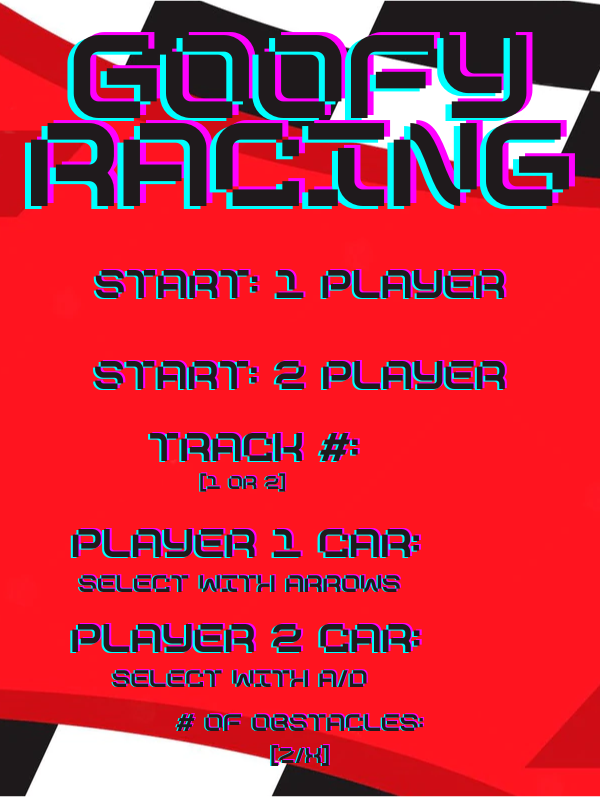
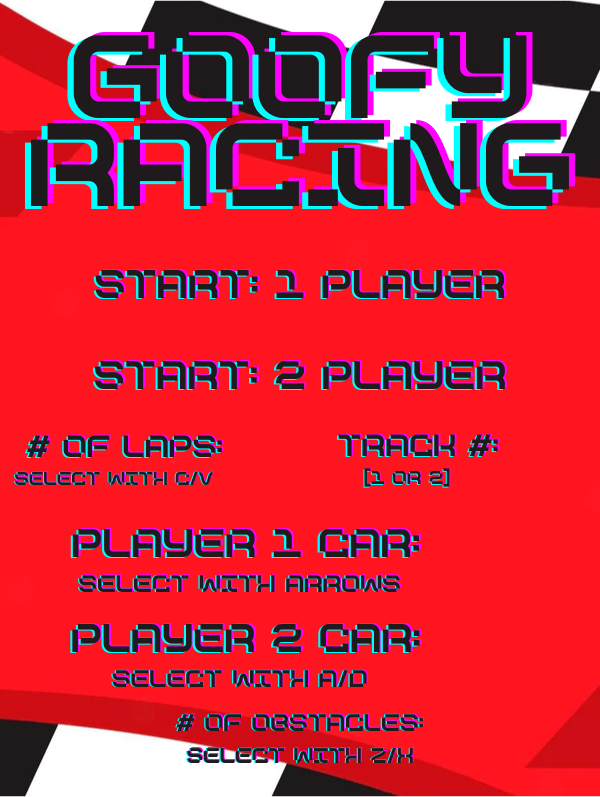
win conditions and final screen

Changed region(s): [[0.03, 0.542, 0.84, 0.6324], [0.3, 0.9335, 0.69, 0.9636]]

diff --git a/main.py b/main.py
@@ -1,10 +1,10 @@
 import pygame as pg
 
-import time , random
-from ingame_objects import PlayerVehicle, Track, banana, booster, Finish
+import time 
+from ingame_objects import PlayerVehicle, Track, banana, booster, Checkpoint
 from menu_objects import button, selector
 
-from gameview import screen, obstacle_setup
+from gameview import screen, obstacle_setup, start_game
 
 #Load all images
 purple_car = pg.image.load('imgs/Purple_car.png')
@@ -19,12 +19,16 @@ border1 = pg.image.load('imgs/trk1border.png')
 track2img = pg.image.load('imgs/trk2.png')
 border2 = pg.image.load('imgs/trk2border.png')
 
-finish1img = pg.image.load('imgs/finish.png')
-finish2img =  pg.image.load('imgs/finish2.png')
+finish2img = pg.image.load('imgs/finish.png')
+finish1img =  pg.image.load('imgs/finish2.png')
+check2img = pg.image.load('imgs/trk1check.png')
+check1img =  pg.image.load('imgs/trk2check.png')
 
 
 
 menuback = pg.image.load('imgs/Goofy Racing.png')
+winback = pg.image.load('imgs/Goofy Win.png')
+solowinback = pg.image.load('imgs/Goofy solo Win.png')
 
 p1buttonimg = pg.image.load('imgs/1pbutton.png')
 p2buttonimg = pg.image.load('imgs/2pbutton.png')
@@ -43,6 +47,9 @@ seven= pg.image.load('imgs/7.png')
 eight= pg.image.load('imgs/8.png')
 numbers = [zero,one,two,three,four,five,six,seven,eight]
 track_num_lst = [one,two]
+large1 = pg.image.load('imgs/1L.png')
+large2= pg.image.load('imgs/2L.png')
+large_nums = [large1,large2]
 pg.init()
 
 pg.mixer.init()
@@ -57,12 +64,15 @@ pg.mixer.music.play()
 track1obstacle_locations = [(93, 91) ,(141, 78) ,(186, 58) ,(185, 144) ,(235, 162) ,(289, 190) ,(299, 126) ,(258, 88) ,(298, 39) ,(352, 91) ,(399, 87) ,(497, 176) ,(478, 235) ,(514, 271) ,(497, 351) ,(478, 439) ,(500, 485) ,(448, 531) ,(415, 601) ,(362, 608) ,(294, 660) ,(230, 628) ,(166, 662) ,(149, 624) ,(128, 577) ,(148, 511) ,(203, 499) ,(243, 532) ,(274, 500) ,(328, 521) ,(383, 471) ,(430, 455) ,(391, 371) ,(431, 328) ,(407, 266) ,(348, 258) ,(313, 284) ,(273, 259) ,(248, 293) ,(198, 264) ,(217, 325) ,(195, 355) ,(247, 366) ,(271, 334) ,(336, 382) ,(293, 411) ,(226, 448) ,(195, 417) ,(130, 407) ,(123, 336) ,(90, 293) ,(125, 255) ,(94, 221)]
 track2obstacle_locations = [(71, 321), (29, 371), (72, 445),(48, 536), (93, 645),(117, 609), (257, 612) ,(202, 574) ,(217, 500) ,(134, 486) ,(161, 396) ,(225, 409) ,(311, 361) ,(357, 443) ,(415, 479) ,(385, 609), (457, 641) ,(469, 592) ,(545, 529) ,(495, 476) ,(541, 399) ,(494, 356) ,(456, 254) ,(406, 301) ,(368, 255) ,(260, 258) ,(183, 221) ,(171, 159) ,(191, 294) ,(250, 148),(324, 196) ,(431, 152) , (487, 182) ,(497, 113) ,(396, 38), (199, 46),(213, 86) ,(131, 69) ,(104, 150), (69, 139)]  
 
-track1 = Track(track1img, border1,(80,120),track1obstacle_locations,(100,160),(120,160) )
-track2 = Track(track2img, border2,(20,220),track2obstacle_locations,(30,260),(60,260) )
+track2 = Track(track1img, border1,(80,120),track1obstacle_locations,(100,160),(120,160) )
+track1 = Track(track2img, border2,(20,220),track2obstacle_locations,(30,260),(60,260) )
 
-finish1 = Finish(finish1img)
-finish2 = Finish(finish2img)
+finish1 = Checkpoint(finish1img)
+finish2 = Checkpoint(finish2img)
+check1 = Checkpoint(check1img)
+check2 = Checkpoint(check2img)
 finishes = [finish1,finish2]
+checks = [check1,check2]
 
 tracks = [track1, track2]
 
@@ -73,8 +83,6 @@ w , h = track1.img.get_width(), track1.img.get_height()
 disp = pg.display.set_mode((w,h))
 
 pg.display.set_caption('Goofy Racing')
-
-running = True
 
 ck = pg.time.Clock()#setup a clock to make game run at a constant rate
 
@@ -97,22 +105,38 @@ p2buttonMask = pg.mask.from_surface(p2buttonimg)
 
 p1button = button([w/2-200,h/2-175,400,75],p1buttonimg)
 p2button = button([w/2-200,h/2-70,400,75],p2buttonimg)
-game = False
+
 
 car_selector = selector(0,5,pg.K_LEFT,pg.K_RIGHT)
 car_selector2 = selector(0,5,pg.K_a,pg.K_d)
 obs_selector = selector(0,8,pg.K_z,pg.K_x)
 track_selector = selector(0,1,pg.K_1,pg.K_2)
-track_num = 1
-
+lap_selector = selector(1,9,pg.K_c,pg.K_v)
+track_num = 0
+lap_goal = 3
 banana = banana(bananaimg)
 booster = booster(boostimg)
-
-
 obsnum = 0
 
+def check_lap(player_car, finish, track , check):
+    if (player_car.collision(finish.border,track.finish_loc)!= None) and (player_car.prevfram == None) and player_car.check:
+        player_car.laps += 1
+        player_car.check = False
+    player_car.prevfram = player_car.collision(finish.border,track.finish_loc)
+    if player_car.collision(check.border):
+        player_car.check = True
+
+def check_win(player_car,lap_goal):
+    if player_car.laps == lap_goal:
+        player_car.win = True
+        return player_car.player
+
+
+
+running = True
+game = False
 while running:
-    menuimgs = [(menuback,(0,0)),(car_select[i], (w/2+175,h/2+130)),(car_select[j], (w/2+175,h/2+230)), (numbers[obsnum],(w/2+150,h/2+310)), (track_num_lst[track_num],(w/2+100,h/2+30))]
+    menuimgs = [(menuback,(0,0)),(car_select[i], (w/2+175,h/2+130)),(car_select[j], (w/2+175,h/2+230)), (numbers[obsnum],(w/2+150,h/2+310)), (track_num_lst[track_num],(w/2+220,h/2+27)),(numbers[lap_goal],(w/2-60,h/2+27))]
     # ADD A LIST OF TEXT VALUEs FOR 0 - 10 FOR OBSTACLE SELECTOR USING INDEX OBSNUM
     
     mousepos = pg.mouse.get_pos()
@@ -126,6 +150,7 @@ while running:
     j = car_selector2.change(keys,j)
     obsnum = obs_selector.change(keys,obsnum)
     track_num = track_selector.change(keys, track_num)
+    lap_goal = lap_selector.change(keys, lap_goal)
 
     for event in pg.event.get():
         if event.type == pg.QUIT: #close game if the x is clicked
@@ -135,22 +160,24 @@ while running:
             players =1
             track = tracks[track_num]
             finish = finishes[track_num]
-            player1_car = PlayerVehicle(4,5,0.15,0.3,car_select[i], 1,track.p1_start, track.p2_start)
+            check = checks[track_num]
+            player1_car = PlayerVehicle(4,5,0.15,0.4,car_select[i], 1,track.p1_start, track.p2_start)
             cars = [player1_car]
             obstacles = obstacle_setup(obsnum,track.obstacle_locations,banana,booster)
-            imgs= [(cyber,(0,0)),(track.img,(0,0)),(finish.img,track.finish_loc),(track.borderimg,(0,0))]
-
+            imgs= [(cyber,(0,0)),(check.img,(0,0)),(track.img,(0,0)),(finish.img,track.finish_loc),(track.borderimg,(0,0))]
+            start_game(disp, imgs, numbers,w,h,cars,obstacles)
             game=True
         if p2button.check_clicked(event,mousepos):
             players =2 
             track = tracks[track_num]
             finish = finishes[track_num]
-            player1_car = PlayerVehicle(4,5,0.15,0.3,car_select[i], 1, track.p1_start, track.p2_start)
-            player2_car = PlayerVehicle(4,5,0.15, 0.3,car_select[j],2, track.p1_start, track.p2_start)
+            check = checks[track_num]
+            player1_car = PlayerVehicle(4,5,0.15,0.4,car_select[i], 1, track.p1_start, track.p2_start)
+            player2_car = PlayerVehicle(4,5,0.15, 0.4,car_select[j],2, track.p1_start, track.p2_start)
             cars = [player1_car,player2_car]
             obstacles = obstacle_setup(obsnum,track.obstacle_locations,banana,booster)
-            imgs= [(cyber,(0,0)),(track.img,(0,0)),(finish.img,track.finish_loc),(track.borderimg,(0,0))]
-        
+            imgs= [(cyber,(0,0)),(check.img,(0,0)),(track.img,(0,0)),(finish.img,track.finish_loc),(track.borderimg,(0,0))]
+            start_game(disp, imgs, numbers,w,h,cars,obstacles)
             game=True
 
     
@@ -165,8 +192,6 @@ while running:
 
 
     while game:
-        
-        
         ck.tick(fps)
         for event in pg.event.get():
             if event.type == pg.QUIT: #close game if the x is clicked
@@ -174,35 +199,46 @@ while running:
                 running = False
                 break
             #if event.type == pg.MOUSEBUTTONDOWN:
-                #print(mousepos, end = " ,")
-            
-                
+                #print(mousepos, end = " ,") 
         screen(disp,imgs,cars, obstacles)
-        
         keys = pg.key.get_pressed()
-        player1_car.control(keys,1)
-        if players ==2:
-            player2_car.control(keys,2)
         
-
+        
 
         for player_car in cars:
+            player_car.control(keys)
+
             if player_car.collision(track.border) != None:
                 player_car.recoil()
-            
-            if player_car.collision(finish.border,track.finish_loc)!= None:
-                print('finish')
-
+            check_lap(player_car, finish , track, check)
+            winner = check_win(player_car, lap_goal)
+            if winner:
+                winScreen = True
+                running= False
+                game = False
+                
             for o in obstacles:
                 if o[0].type == 'banana':
                     if player_car.collision(o[0].get_mask(),o[1])!= None:
                         banana.spin(player_car)
                     else:
                         player_car.spin = False
-                if o[0].type == 'booster':
-                    if player_car.collision(o[0].get_mask(),o[1])!= None:
-                        booster.boost(player_car)
-                    
+                if (o[0].type == 'booster') and (player_car.collision(o[0].get_mask(),o[1])!= None):
+                    booster.boost(player_car)
 
+
+while winScreen:
+    if players ==2:
+        winimgs = [(winback,(0,0)),(large_nums[winner-1],(w/2+150,h/2-167))]
+    if players ==1:
+        winimgs = [(solowinback,(0,0))]
+
+        ###SINGLE PLAYER WIN CONDITIONS TO BE ADDED
+    screen (disp,winimgs)
+    for event in pg.event.get():
+        if event.type == pg.QUIT: #close game if the x is clicked
+            winScreen = False
+            break
+    
 
 pg.quit()

diff --git a/ingame_objects.py b/ingame_objects.py
@@ -76,15 +76,20 @@ class Vehicle:
 class PlayerVehicle(Vehicle):
     
     def __init__(self, maxv, av, accel,ang_accel, img,player,p1start, p2start):
-        if player ==1:
+        self.laps = 0
+        self.win = False
+        self.prevfram  = None 
+        self.check = False
+        self.player = player
+        if self.player ==1:
             self.start_position = p1start
-        if player ==2:
+        if self.player ==2:
             self.start_position = p2start
         super().__init__(maxv, av,accel, img,ang_accel)
 
-    def control(self,keys,player):
+    def control(self,keys):
         
-        if player == 1:       
+        if self.player == 1:       
             if keys[pg.K_LEFT]:
                 super().rotate(True)
             elif keys[pg.K_RIGHT]:
@@ -98,7 +103,7 @@ class PlayerVehicle(Vehicle):
                 super().reverse()
             else:
                 super().slow()
-        if player == 2:
+        if self.player == 2:
             if keys[pg.K_a]:
                 super().rotate(True)
             elif keys[pg.K_d]:
@@ -125,11 +130,7 @@ class obstacle:
         disp.blit(self.img, loc)
     def get_mask(self):
         return pg.mask.from_surface(self.img)
-
-
-
         
-    ## position and mask
 class banana(obstacle):
     def __init__(self, img) -> None:
         super().__init__(img)
@@ -161,7 +162,7 @@ class Track:
         self.p1_start = p1_start_pos
         self.p2_start = p2_start_pos
 
-class Finish:
+class Checkpoint:
     def __init__(self, img) -> None:
         self.img = img
         self.border = pg.mask.from_surface(img)

diff --git a/gameview.py b/gameview.py
@@ -1,5 +1,6 @@
 import pygame as pg
 import random
+import time
 def rotate_img(win, img, top_left, angle):
     rotated_img = pg.transform.rotate(img,angle)
     new_rec = rotated_img.get_rect(
@@ -32,4 +33,16 @@ def obstacle_setup(obsnum,obstacle_locations,banana,booster):
             obstacles.append((booster,obstacle_locations[x]))
     return obstacles
 
-
+def start_game(disp,imgs,numbers,w,h,cars,obstacles):
+    imgs.append((numbers[3],(w/2,h/2)))
+    screen(disp,imgs,cars,obstacles)
+    imgs.remove((numbers[3],(w/2,h/2)))
+    time.sleep(1)
+    imgs.append((numbers[2],(w/2,h/2)))
+    screen(disp,imgs,cars,obstacles)
+    imgs.remove((numbers[2],(w/2,h/2)))
+    time.sleep(1)
+    imgs.append((numbers[1],(w/2,h/2)))
+    screen(disp,imgs,cars,obstacles)
+    imgs.remove((numbers[1],(w/2,h/2)))
+    time.sleep(1)
